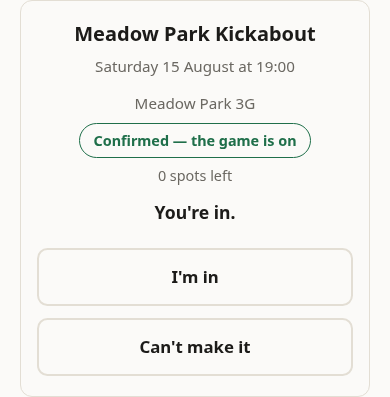
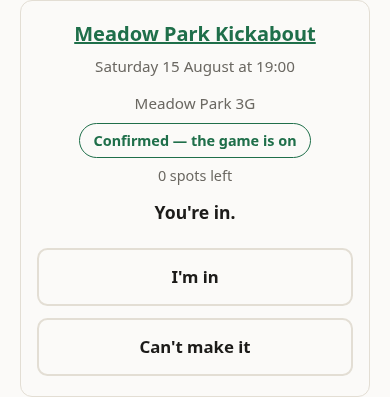
feat: link a player from their fixtures to the game itself
The member's game page was reachable only by typing its URL: the
dashboard's only game links come from the games a viewer owns, which for
an ordinary player is none. Each fixture card's heading is now a link to
that game, which needs no new query — the dashboard already loads every
game the viewer has a fixture in — and the page itself now offers a way
back to the fixture list.

Claude-Session: https://claude.ai/code/session_01Mj62Ur26iU2Mrm7FtZg8zB

Changed region(s): [[0.1846, 0.0605, 0.8308, 0.1209]]

diff --git a/src/views/dashboard.ts b/src/views/dashboard.ts
@@ -19,6 +19,12 @@ import { DASHBOARD_STYLES_CSS, FIXTURE_STYLES_CSS } from "./styles.js";
  */
 export interface DashboardRow {
   fixtureId: string;
+  /**
+   * The game this fixture belongs to. Here for one reason: the card's heading
+   * links to that game's page, which is the only route a member who owns
+   * nothing has into it — see `renderRow`.
+   */
+  gameId: string;
   gameName: string;
   venueName: string;
   /** Already formatted in the game's timezone by the caller (TR-5). */
@@ -57,6 +63,16 @@ function renderActions(row: DashboardRow): string {
       </form>`;
 }
 
+/**
+ * One fixture card. Its heading is a link to the game's own page.
+ *
+ * That link is the *only* way a member who owns nothing reaches their game —
+ * "Games you own" below lists games they own, which for most players is none —
+ * and it costs no extra query, because the dashboard already loads every game
+ * the viewer has a fixture in. The same "built but nobody can get to it"
+ * failure that `renderOwnedGamesSection` exists to prevent for `/g/new` had
+ * happened again for the member's own game page; this is the fix for it.
+ */
 function renderRow(row: DashboardRow): string {
   // Same sentences the fixture page uses for the same statuses — imported, not
   // restated, so a waitlisted player can never read as confirmed on one page
@@ -66,7 +82,7 @@ function renderRow(row: DashboardRow): string {
 
   return `
     <li class="fixture-card">
-      <h2>${escapeHtml(row.gameName)}</h2>
+      <h2><a href="${escapeHtml(gamePath(row.gameId))}">${escapeHtml(row.gameName)}</a></h2>
       <p class="kickoff">${escapeHtml(row.kicksOffAtLocal)}</p>
       <p class="venue">${escapeHtml(row.venueName)}</p>
       ${renderStatusLine(row.view)}

diff --git a/test/routes/player-game.test.ts b/test/routes/player-game.test.ts
@@ -1,6 +1,7 @@
 import { SELF } from "cloudflare:test";
 import { eq } from "drizzle-orm";
 import { beforeEach, describe, expect, it } from "vitest";
+import { DASHBOARD_PATH } from "../../src/auth/paths.js";
 import { fixtures, players } from "../../src/db/schema.js";
 import { openFixture } from "../../src/domain/open-fixture.js";
 import { insertGame, insertMembership, insertPlayer, playerRow, resetDatabase, testDb } from "../support/factories.js";
@@ -139,6 +140,14 @@ describe("GET /g/:id as a member", () => {
     // The invite link is the owner page's tell, and it must never appear on
     // the player's — it is a capability, not a decoration.
     expect(html).toContain("Invite people");
+  });
+
+  it("gives a member a way back to their games", async () => {
+    const { gameId, cookie } = await seedGameWithOpenFixture({ viewerRole: "player", squadVisibleToPlayers: true });
+
+    const html = await (await appFetch(`/g/${gameId}`, cookie)).text();
+
+    expect(html).toContain(`href="${DASHBOARD_PATH}"`);
   });
 
   it("never shows a member the invite link", async () => {

diff --git a/test/routes/dashboard.test.ts b/test/routes/dashboard.test.ts
@@ -362,6 +362,22 @@ describe("GET /app", () => {
     expect(html).not.toContain("Thursday 7-a-side");
   });
 
+  /**
+   * The member's own game page is reachable from here or from nowhere: a
+   * player who owns nothing gets no "Games you own" list, so the fixture
+   * card's heading is their only link into it.
+   */
+  it("links a member who owns nothing to a game they are in", async () => {
+    const { cookie } = await signIn();
+    const playerId = await viewerId();
+    const { gameId } = await seedFixtureFor(playerId, { gameName: "Sunday Kickabout" });
+
+    const html = await (await SELF.fetch(`${ORIGIN}${DASHBOARD_PATH}`, { headers: { cookie } })).text();
+
+    expect(html).not.toContain("Games you own");
+    expect(html).toContain(`href="/g/${gameId}"`);
+  });
+
   it("does not list a game the viewer belongs to but does not own", async () => {
     const { cookie } = await signIn();
     const playerId = await viewerId();

diff --git a/src/db/dashboard-queries.ts b/src/db/dashboard-queries.ts
@@ -19,6 +19,8 @@ import { fixtures, games, memberships, responses } from "./schema.js";
  */
 export interface DashboardFixture {
   fixtureId: string;
+  /** The game this fixture belongs to, so the page can link to it. */
+  gameId: string;
   gameName: string;
   /** The fixture's venue override if it has one, else the game's (§2.8). */
   venueName: string;
@@ -101,6 +103,7 @@ function selectEntitledFixtures(db: Db, playerId: string, extra?: SQL) {
   return db
     .select({
       fixtureId: fixtures.id,
+      gameId: games.id,
       gameName: games.name,
       gameVenueName: games.venueName,
       venueOverride: fixtures.venueOverride,

diff --git a/src/views/player-game.ts b/src/views/player-game.ts
@@ -1,3 +1,4 @@
+import { DASHBOARD_PATH } from "../auth/paths.js";
 import type { SquadMember } from "../db/queries.js";
 import { formatLocalDateTime } from "../domain/time/zone.js";
 import type { FixtureView } from "../domain/fixture-view.js";
@@ -65,6 +66,8 @@ export function renderPlayerGamePage(params: PlayerGameParams): string {
 
     <h2>Coming up</h2>
     <ul class="squad">${upcomingItems || "<li>No fixtures scheduled.</li>"}</ul>
+
+    <p><a href="${DASHBOARD_PATH}">Back to your games</a></p>
   `;
 
   return layout({

diff --git a/src/routes/dashboard.ts b/src/routes/dashboard.ts
@@ -52,6 +52,7 @@ dashboard.get(DASHBOARD_PATH, requirePlayer, async (c) => {
 function toRow(fixture: DashboardFixture, now: Date): DashboardRow {
   return {
     fixtureId: fixture.fixtureId,
+    gameId: fixture.gameId,
     gameName: fixture.gameName,
     venueName: fixture.venueName,
     // Every timezone conversion in this codebase goes through this one module.

diff --git a/docs/guide/07-your-own-fixtures.md b/docs/guide/07-your-own-fixtures.md
@@ -16,6 +16,10 @@ Meadow Park 3G, the date and 19:00. **Confirmed — the game is on** means enoug
 people have said yes. **0 spots left** means the places are taken. **You're
 in** is your own answer.
 
+The game's name at the top of the card is a link. Tap it to see that game on
+its own — where it's played, who else is playing if the organiser shows that,
+and the dates coming up.
+
 **I'm in** and **Can't make it** sit on the card, and you can use them whether
 or not you've answered already. There's no email in the way here, so it's one
 tap rather than two: tapping a button on the card saves your answer there and
